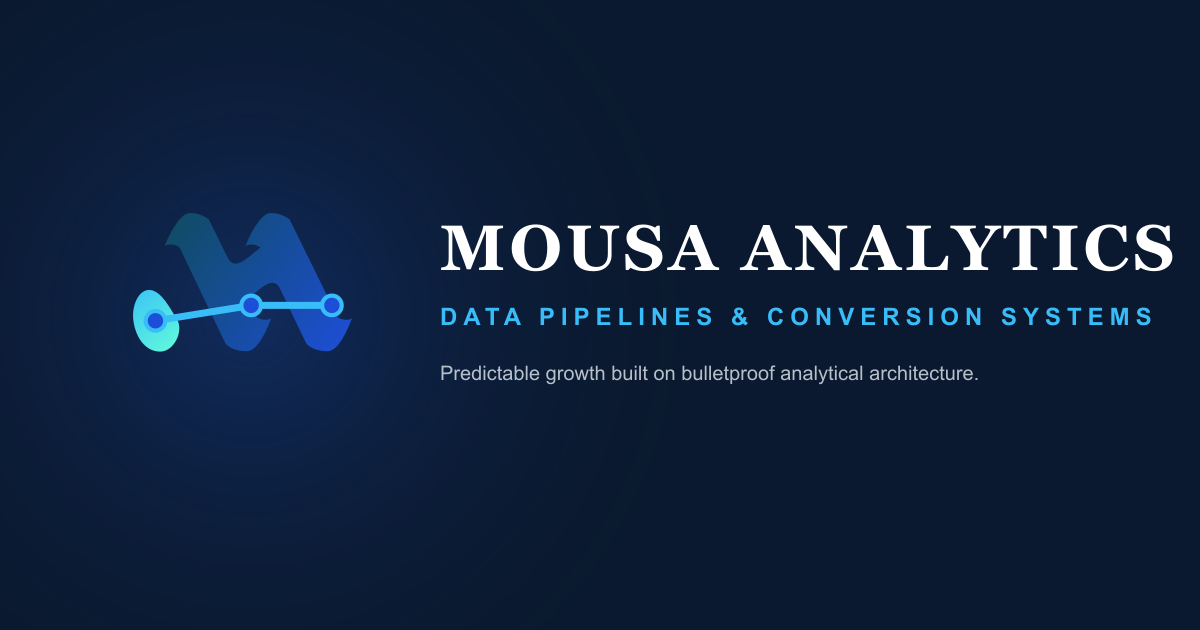
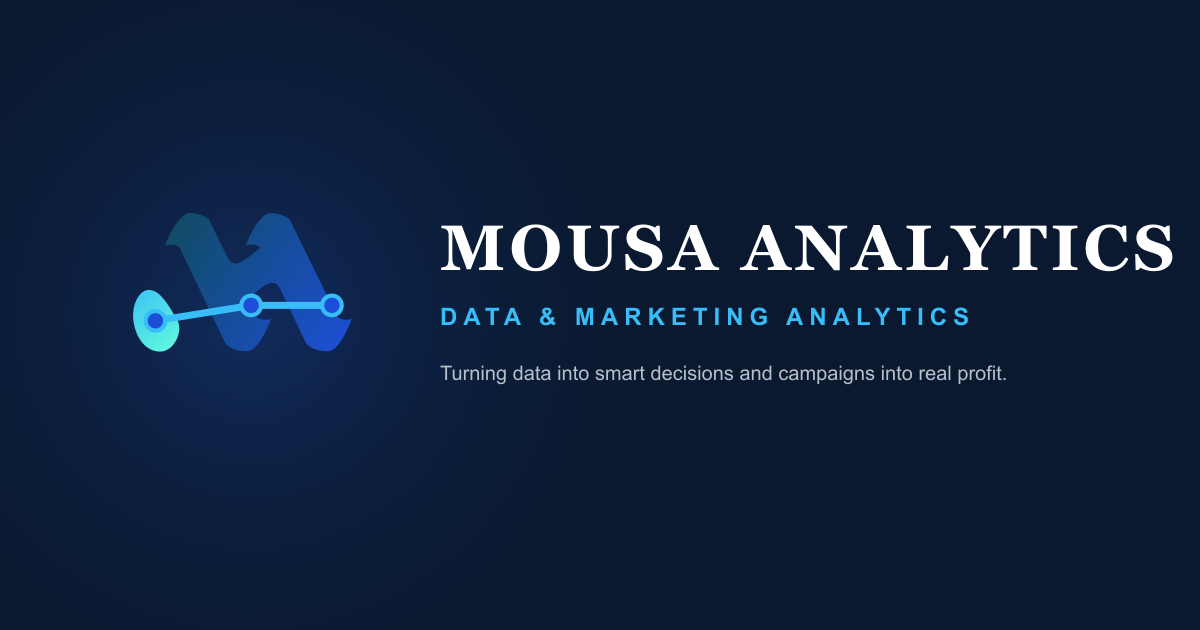
fix: update Open Graph image text and legacy index.html to refer to Data & Marketing Analyst/Analytics instead of Data Pipelines

Changed region(s): [[0.4317, 0.4825, 0.9558, 0.5127], [0.37, 0.573, 0.8325, 0.6032]]

diff --git a/index.html b/index.html
@@ -4,7 +4,7 @@
 <head>
   <meta charset="UTF-8">
   <meta name="viewport" content="width=device-width, initial-scale=1.0">
-  <title>Amr Systems - Data Pipelines & Conversion Systems</title>
+  <title>Amr Mousa - Data & Marketing Analyst</title>
 
   <!-- Fonts -->
   <link rel="preconnect" href="https://fonts.googleapis.com">
@@ -192,7 +192,7 @@
           <div class="relative z-10 space-y-6 md:space-y-8 max-w-2xl">
             <!-- Overline/Eyebrow -->
             <div class="text-[10px] md:text-xs font-bold tracking-[0.25em] text-[#2563EB] uppercase">
-              DATA PIPELINES & CONVERSION SYSTEMS
+              DATA & MARKETING ANALYTICS
             </div>
 
             <!-- H1 Name -->
